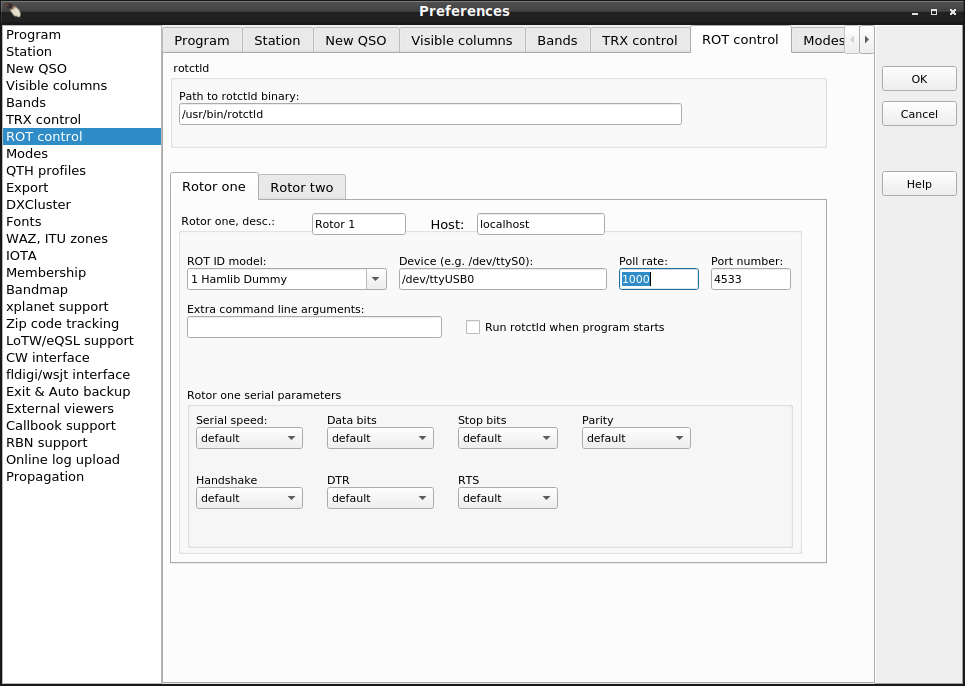
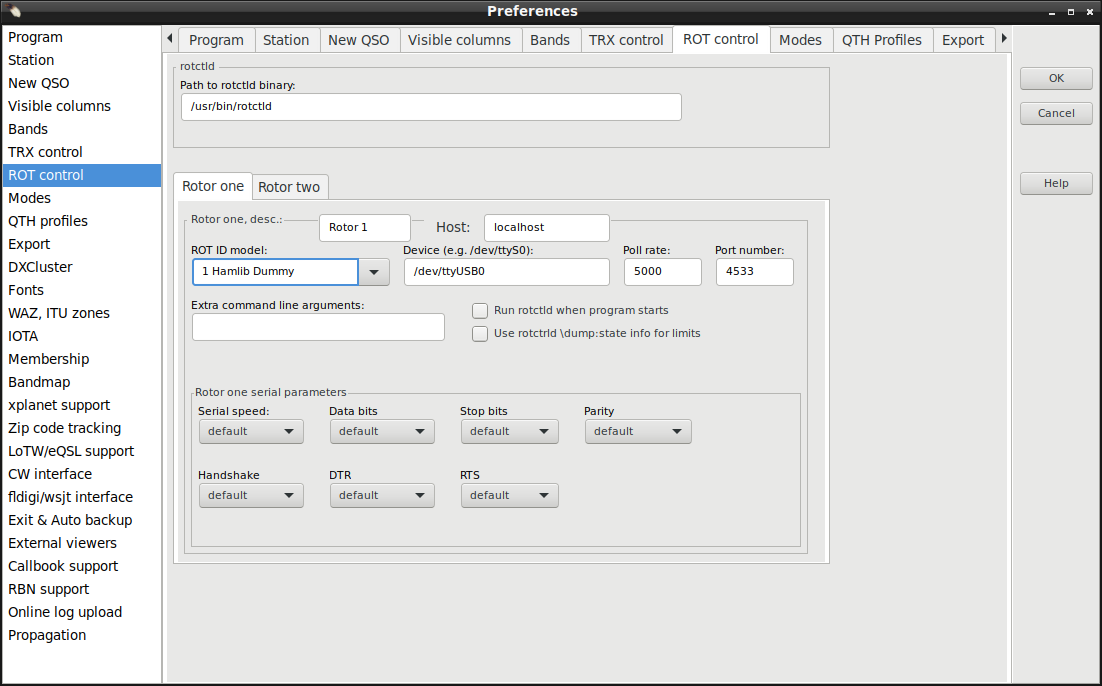
Selection of \dump_state used in preferences. Stup button, warn/err clolors in RotContorl form

diff --git a/help/h30.html b/help/h30.html
@@ -67,12 +67,15 @@ So do not wonder if you get smaller amount of memories than in your list when pr
 <p>
 
 From NewQSO/Window you can open <strong>Rotor control</strong> window.
-<p><img src="img/h121a.png" name="7"  width="353" height="367">
+<p><img src="img/h121a.png" name="121a"> <img src="img/h121b.png" name="121b">  <img src="img/h121c.png" name="121c">
 </p>
 Window shows current position of rotor, Buttons to set Short/Long path direction and radio buttons to select rotor 1 or rotor 2.
 <br><br> When you have filled a call to NewQSO callsign field and moved away from that field DXCC info part is filled against call prefix, and/or locator grid if entered.
  At that point, when DXCC/AZIM shows a value it is possible to press <b>Short Path</b> or <b>Long Path buttons</b> and your rotator will turn your antenna to that direction.
-<br><br> If you make changes to <b>preferences/Rot Control</b> after that just select another rotator (even if not existing) from radio buttons <b>Rotor 1</b> , <b>Rotor 2</b>. Then select back the previous rotor and new values are read. It is possible also reload settings from <b>NewQSO/File/Refresh TRX/ROT control</b>.</p>
+<br>Pressing <b>Stop button</b> stops rotator turning.</p>
+<p>If error message is received from rotctld button box turns red. If requested turn command is ok, but az_min or az_maz limits prevent antenna to reach requested direction button box will turn yellow. The length of color flash depends poll rate and is error permanent or not.
+<br>
+<br>If you make changes to <b>preferences/Rot Control</b> after that just select another rotator (even if not existing) from radio buttons <b>Rotor 1</b> , <b>Rotor 2</b>. Then select back the previous rotor and new values are read. It is possible also reload settings from <b>NewQSO/File/Refresh TRX/ROT control</b>.</p>
 </p><p>See also <a href="h1.html#ah7">setting up TRX/ROTControl</a>
 </p><table width="100%" border="0" cellpadding="2" cellspacing="2">
     <tbody>

diff --git a/help/h1.html b/help/h1.html
@@ -231,14 +231,15 @@
 <img src=img/h10b.png border=0><br><br>
 <br>
 Setting up Rotator control is very similar to setting up Rig control.
-<br><br><strong>Note:</strong>
-
-<br>Rot control asks turning limits AzMin and AzMax values from rotctld with command <strong>'+\dump_state'</strong>.
+<br>
+<br>If <b>Use rotctld \dump_state info for limits</b> cheked rotctld asks turning limits AzMin and AzMax values from rotctld with command <strong>'+\dump_state'</strong>.
  That makes user possible to set turning limits other than rotator default turn with
  <strong>Extra command line arguments</strong>. Using string <strong> --set-conf=min_az=10,max_az=355</strong>  you can set rotator so that cqrlog will never turn it below 10deg or over 355deg.
- </p><p>Rotctld knows rotators with turn from -180deg-0deg-180deg (south stop), like Hamlib Dummy test rotator.
- <br>Most of rotators are with turn 0deg - 360deg.
- <br>Some are with turn 0deg - >360 deg. With them cqrlog never drives values over 360, but reads position right if rotor sends over 360 deg value (sent_value-360 = cqrlog display).
+ <br>Using negative value at az_min causes Cqrlog set it's 0degrees "P"-command to given negative value (while still displaying 0). I.E if az_min=-180 Cqrlog will use turning commands from "P-180" to "P180".
+ <br>Without negative az_min or when checkbox  <b>Use rotctld \dump_state info for limits</b> is not set Cqrlog sends commands in usual range "P0 to "P360".
+ </p><p>Some rotators have turn from -180deg-0deg-180deg (south stop), like Hamlib Dummy test rotator.
+ <br>Most of rotators have turn 0deg - 360deg.
+ <br>Some may turn 0deg - >360 deg. With them cqrlog never drives values over 360, but reads position right if rotor sends over 360 deg value (sent_value-360 = cqrlog display).
 </p> 
 <p>See also <a href="h30.html">Operation: TRX/ROT Control</a>
 </p><p align=center><img src=img/line.png></p>
